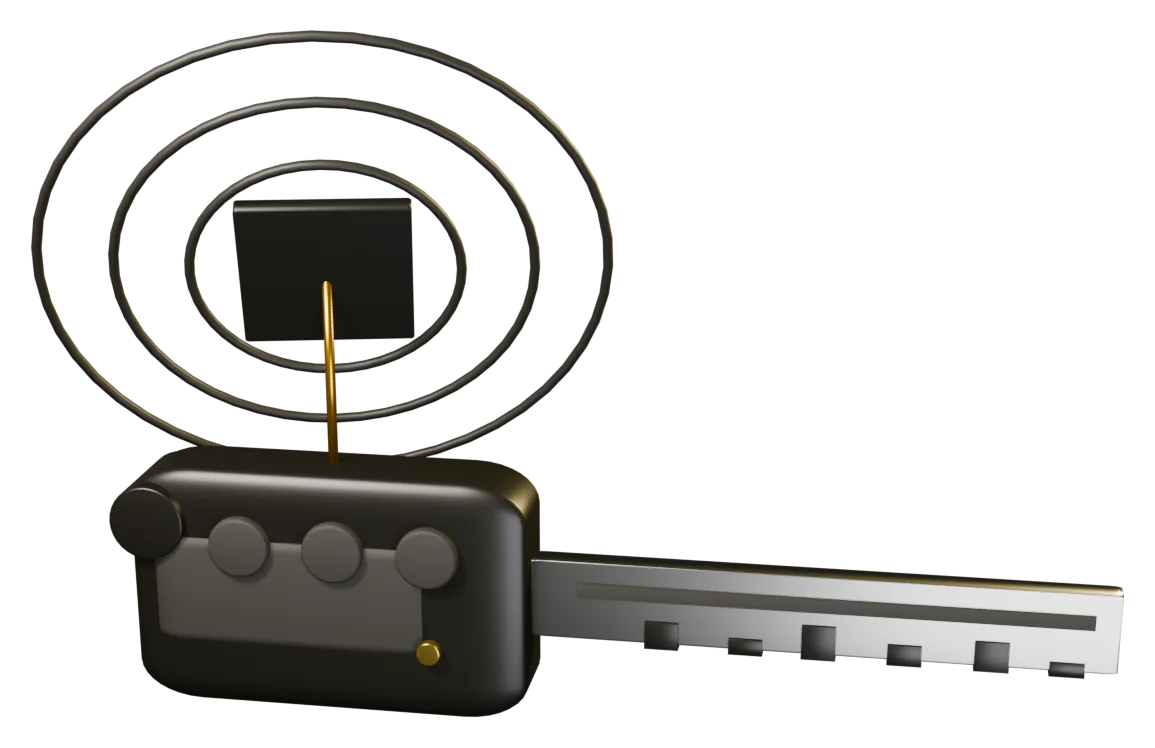
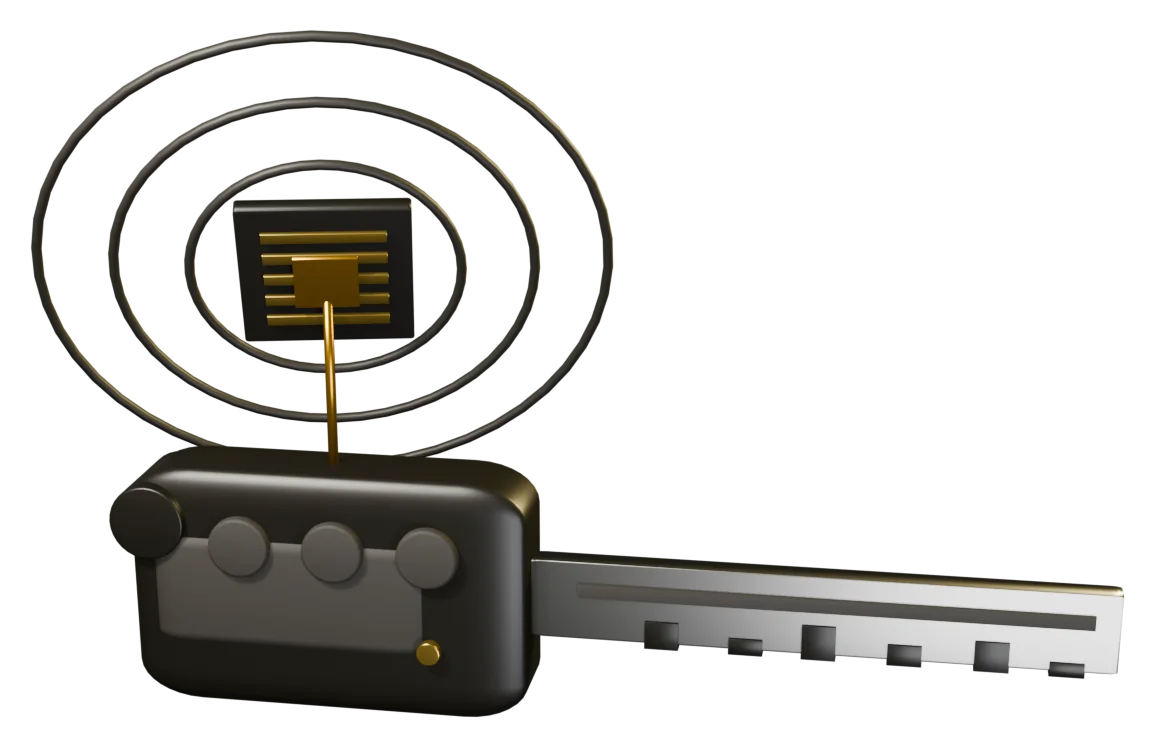
fix: pistas del chip visibles (grupo sin escala)

Changed region(s): [[0.2182, 0.3075, 0.3429, 0.4612]]

diff --git a/index.html b/index.html
@@ -10,7 +10,7 @@
 <link rel="preconnect" href="https://fonts.googleapis.com">
 <link rel="preconnect" href="https://fonts.gstatic.com" crossorigin>
 <link href="https://fonts.googleapis.com/css2?family=Bricolage+Grotesque:opsz,wght@12..96,500;12..96,700;12..96,800&family=Plus+Jakarta+Sans:wght@500;600;700;800&display=swap" rel="stylesheet">
-<link rel="stylesheet" href="css/styles.css?v=20260922u">
+<link rel="stylesheet" href="css/styles.css?v=20260922v">
 </head>
 <body>
 
@@ -301,7 +301,7 @@
   <a href="https://wa.me/50672907799?text=Hola%2C%20necesito%20un%20servicio%20de%20cerrajer%C3%ADa" class="btn btn--ghost" target="_blank" rel="noopener">WhatsApp</a>
 </div>
 
-<script src="js/main.js?v=20260922u" defer></script>
-<script src="js/scrub.js?v=20260922u" defer></script>
+<script src="js/main.js?v=20260922v" defer></script>
+<script src="js/scrub.js?v=20260922v" defer></script>
 </body>
 </html>

diff --git a/assets-fuente/llave-chip.py b/assets-fuente/llave-chip.py
@@ -61,14 +61,15 @@ for j, (x, h) in enumerate(((0.4, .12), (0.75, .07), (1.05, .15), (1.4, .09), (1
     box(f"cut{j}", (0.14, 0.14, h), (x, 0, -0.17 + h / 2 - 0.02), M_PLASTIC, .004, 2)
 # --- chip transponder flotando sobre la cabeza ---
 chipz = 1.35
-chip = box("chip", (0.7, 0.7, 0.07), (-1.0, 0, chipz), M_CHIP, .02, 4, rot=(math.radians(-62), 0, math.radians(14)))
-# pistas doradas sobre el chip (hijas)
+# grupo sin escala: las hijas heredan solo rotacion/posicion, no el aplastado del chip
+bpy.ops.object.empty_add(location=(-1.0, 0, chipz), rotation=(math.radians(-62), 0, math.radians(14)))
+chipg = bpy.context.object; chipg.name = "chip_grp"
+chip = box("chip", (0.7, 0.7, 0.07), (0, 0, 0), M_CHIP, .02, 4); chip.parent = chipg
 # pistas y nucleo en AMBAS caras: la que mire a camara siempre las muestra
-for side in (0.05, -0.05):
+for side in (0.045, -0.045):
     for k in range(5):
-        t = box(f"trace{k}{side}", (0.5, 0.045, 0.02), (0, -0.22 + k * 0.11, side), M_TRACE, .002, 1)
-        t.parent = chip
-    core = box(f"core{side}", (0.26, 0.26, 0.05), (0, 0, side * 1.2), M_GOLD, .01, 3); core.parent = chip
+        t = box(f"trace{k}{side}", (0.5, 0.045, 0.02), (0, -0.22 + k * 0.11, side), M_TRACE, .002, 1); t.parent = chipg
+    core = box(f"core{side}", (0.26, 0.26, 0.05), (0, 0, side * 1.1), M_GOLD, .01, 3); core.parent = chipg
 # anillos de señal
 for n, r in enumerate((0.55, 0.85, 1.15)):
     bpy.ops.mesh.primitive_torus_add(major_radius=r, minor_radius=0.02, location=(-1.0, 0, chipz), rotation=(math.radians(-62), 0, math.radians(14)))
